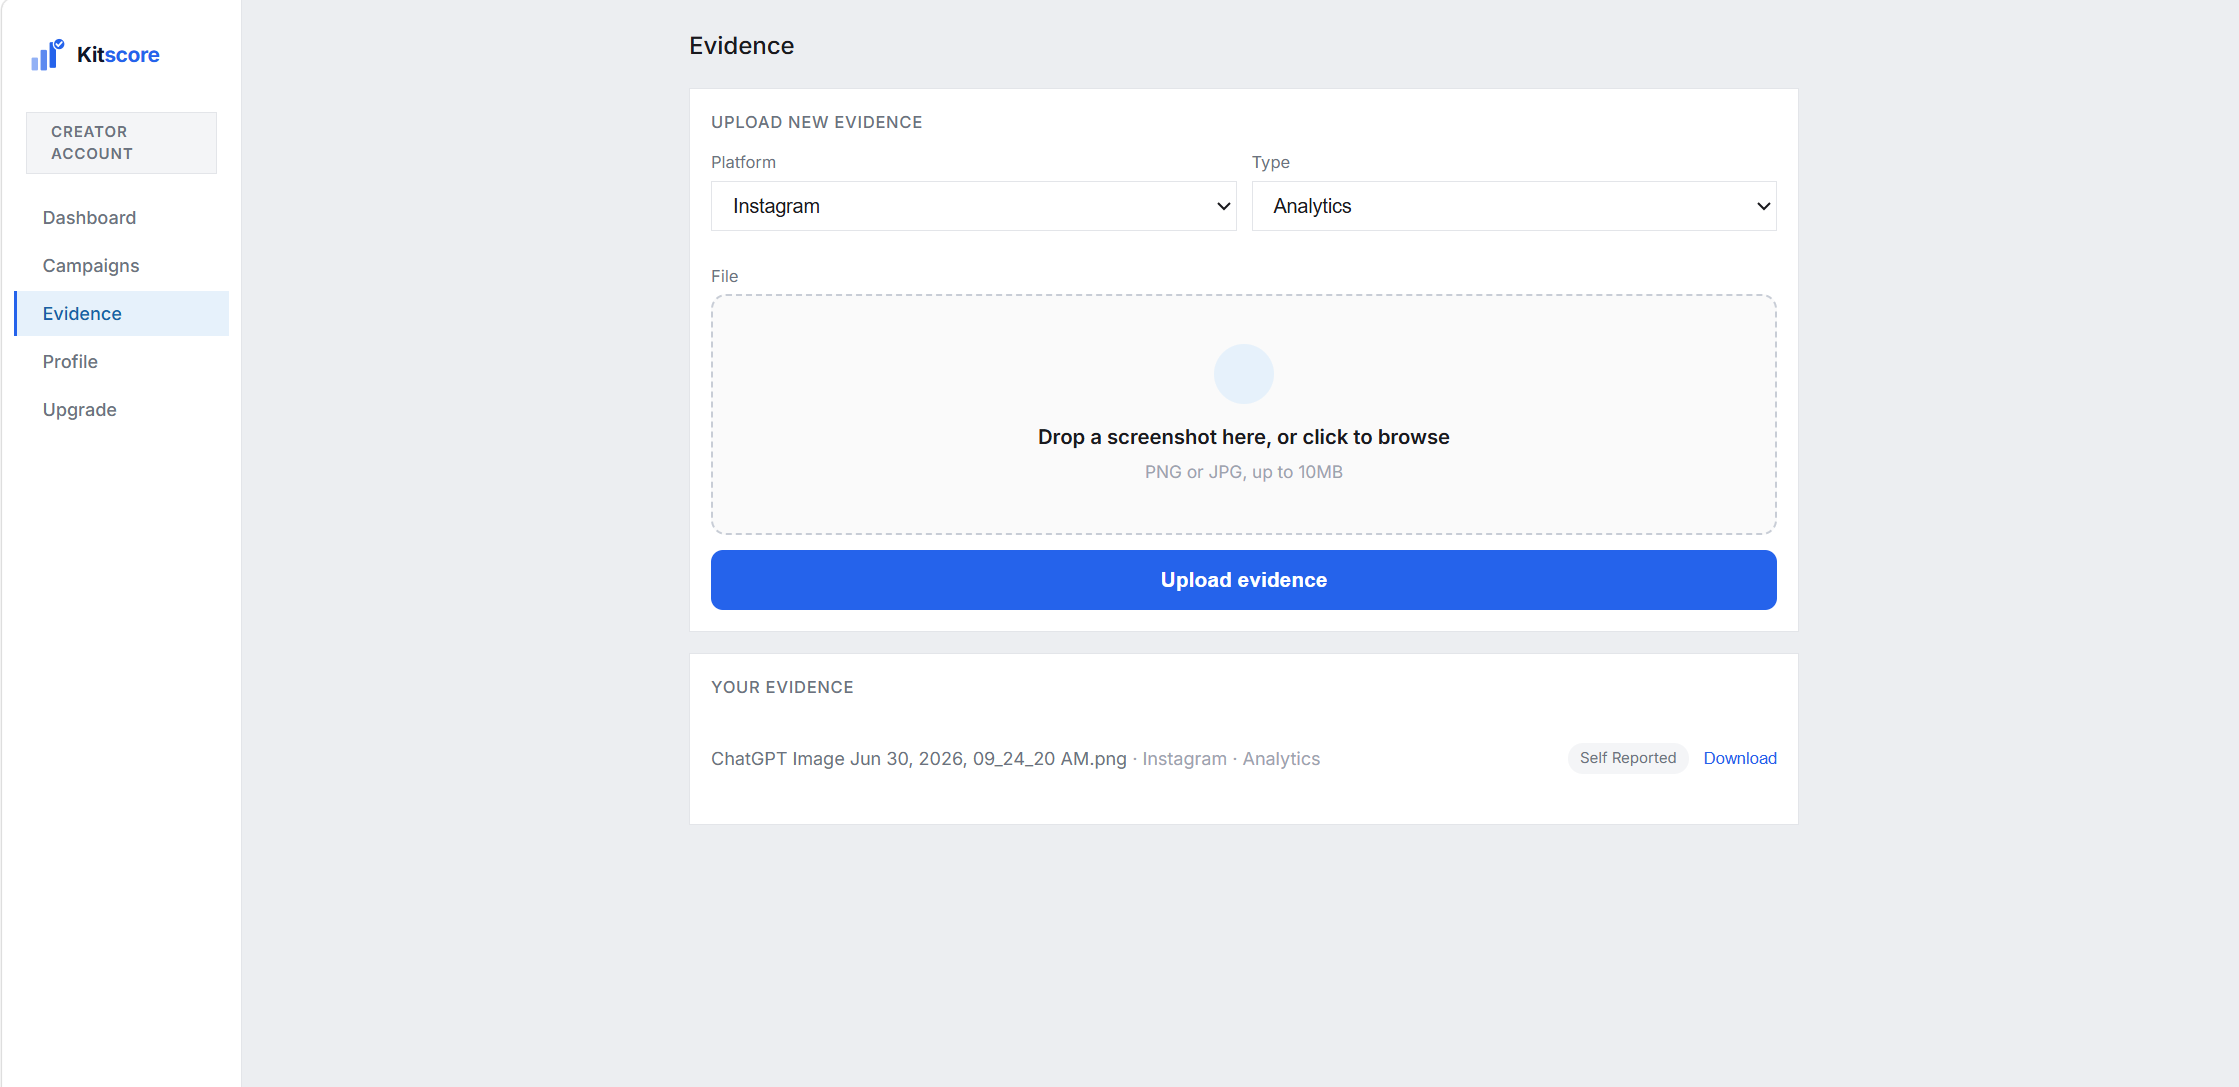
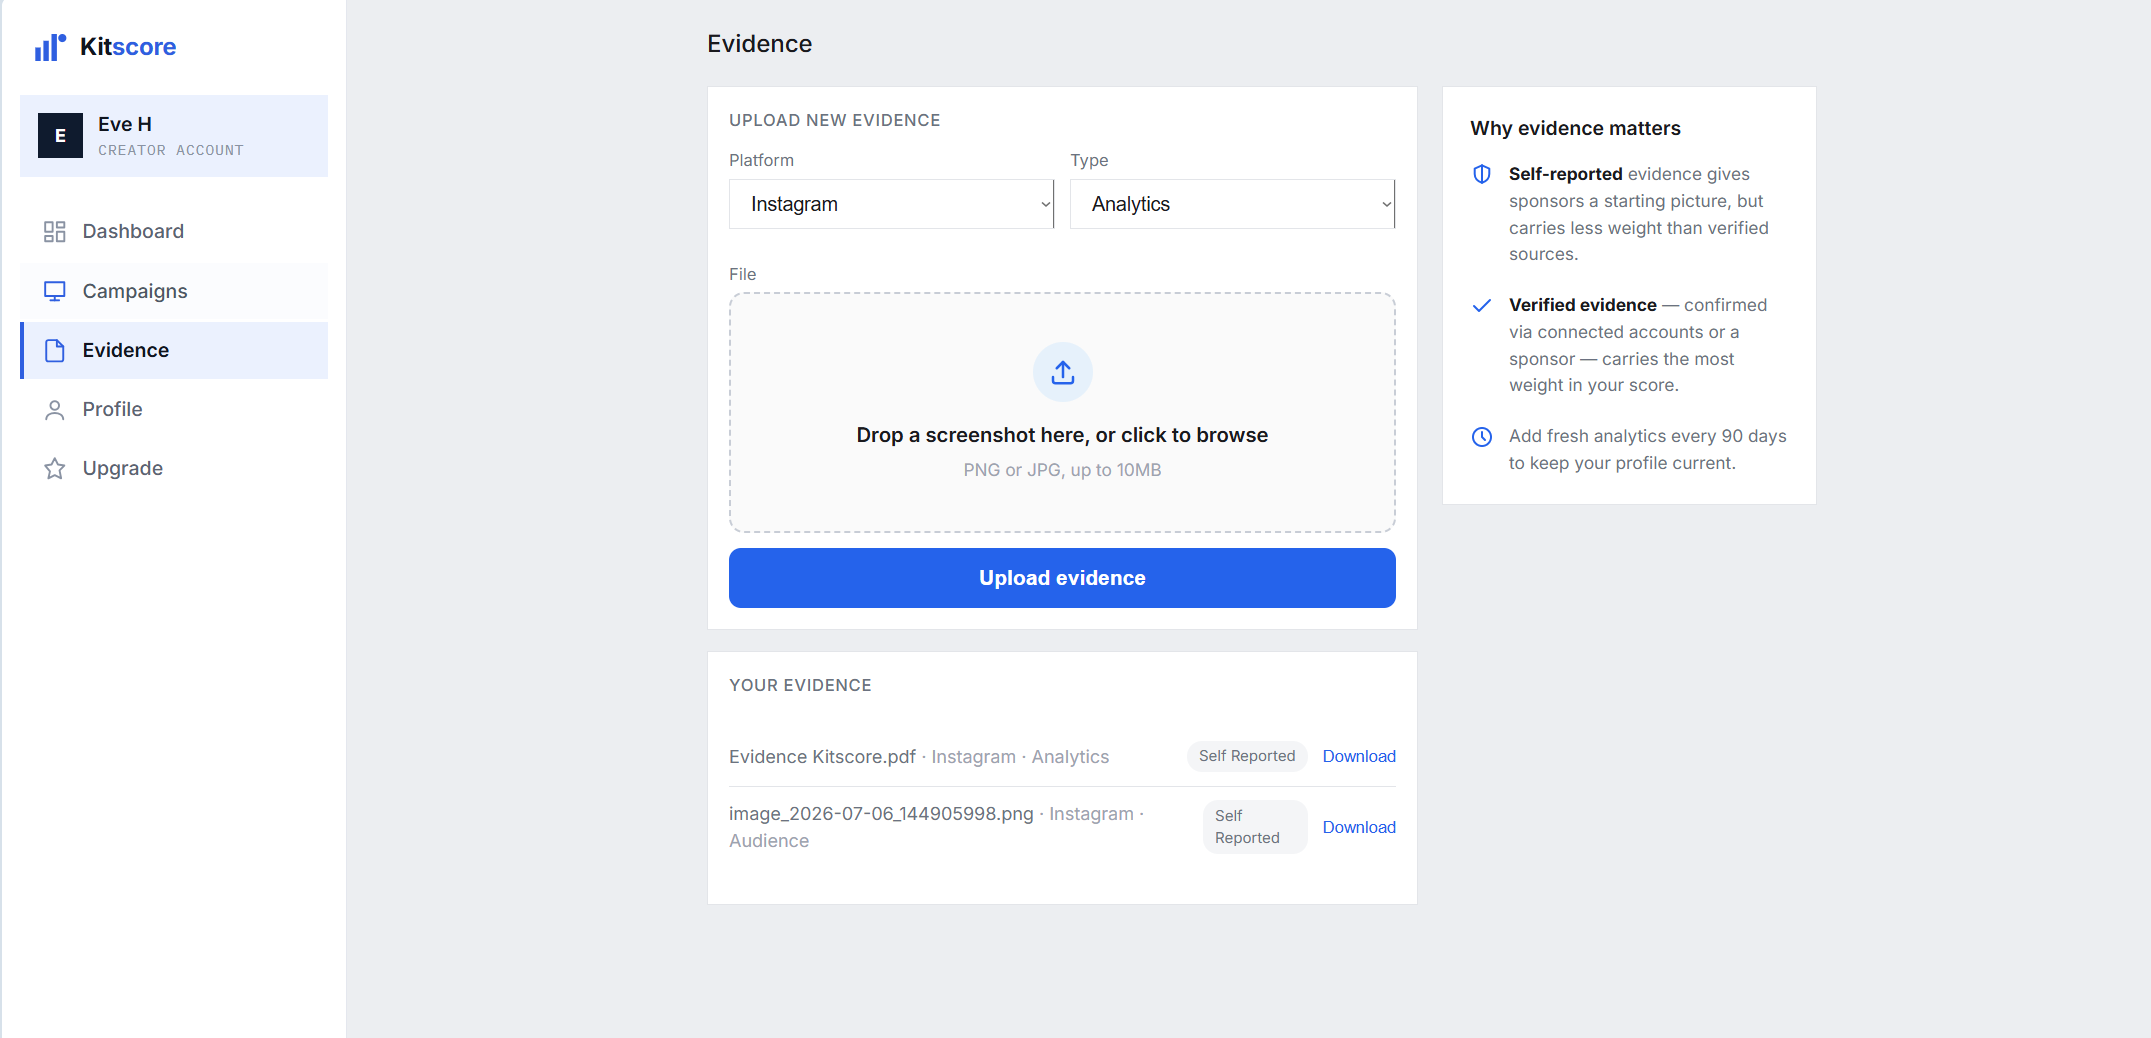
Replace See It In Action tiles with real creator-side screenshots (dashboard, verified campaign, evidence)

diff --git a/index.html b/index.html
@@ -1072,7 +1072,7 @@
 <section id="see-it-in-action" style="padding:64px 2rem;max-width:1100px;margin:0 auto">
   <div class="section-label">See It In Action</div>
   <h2 class="section-h">The real product. Not a mockup.</h2>
-  <p class="section-sub" style="margin-bottom:32px">These are actual screens from the live app — browsing creators, reviewing a full evaluation, and submitting evidence.</p>
+  <p class="section-sub" style="margin-bottom:32px">These are actual screens from the live app — the creator's trust score dashboard, a verified campaign, and evidence submission.</p>
 
   <div class="siia-grid" style="display:grid;grid-template-columns:1fr 1fr 1fr;gap:24px">
     <div>
@@ -1082,9 +1082,9 @@
           <div style="width:9px;height:9px;border-radius:50%;background:#E3E5E9"></div>
           <div style="width:9px;height:9px;border-radius:50%;background:#E3E5E9"></div>
         </div>
-        <img src="assets/product-directory.png" alt="Kitscore creator directory, sponsor view" style="width:100%;display:block">
+        <img src="assets/product-dashboard-creator.png" alt="Kitscore creator trust score dashboard" style="width:100%;display:block">
       </div>
-      <p style="font-size:12.5px;color:var(--muted);margin-top:10px;text-align:center">Sponsor view — browsing creators by trust score</p>
+      <p style="font-size:12.5px;color:var(--muted);margin-top:10px;text-align:center">Creator view — trust score, verified campaigns, and score breakdown</p>
     </div>
     <div>
       <div style="border:0.5px solid var(--border);border-radius:10px;overflow:hidden;box-shadow:0 1px 3px rgba(0,0,0,0.04)">
@@ -1093,9 +1093,9 @@
           <div style="width:9px;height:9px;border-radius:50%;background:#E3E5E9"></div>
           <div style="width:9px;height:9px;border-radius:50%;background:#E3E5E9"></div>
         </div>
-        <img src="assets/product-evaluate.png" alt="Kitscore full evaluation report view" style="width:100%;display:block">
+        <img src="assets/product-campaigns.png" alt="Kitscore verified campaign confirmation" style="width:100%;display:block">
       </div>
-      <p style="font-size:12.5px;color:var(--muted);margin-top:10px;text-align:center">Full evaluation — score breakdown and recommendation</p>
+      <p style="font-size:12.5px;color:var(--muted);margin-top:10px;text-align:center">Creator view — a mutually confirmed, verified campaign</p>
     </div>
     <div>
       <div style="border:0.5px solid var(--border);border-radius:10px;overflow:hidden;box-shadow:0 1px 3px rgba(0,0,0,0.04)">